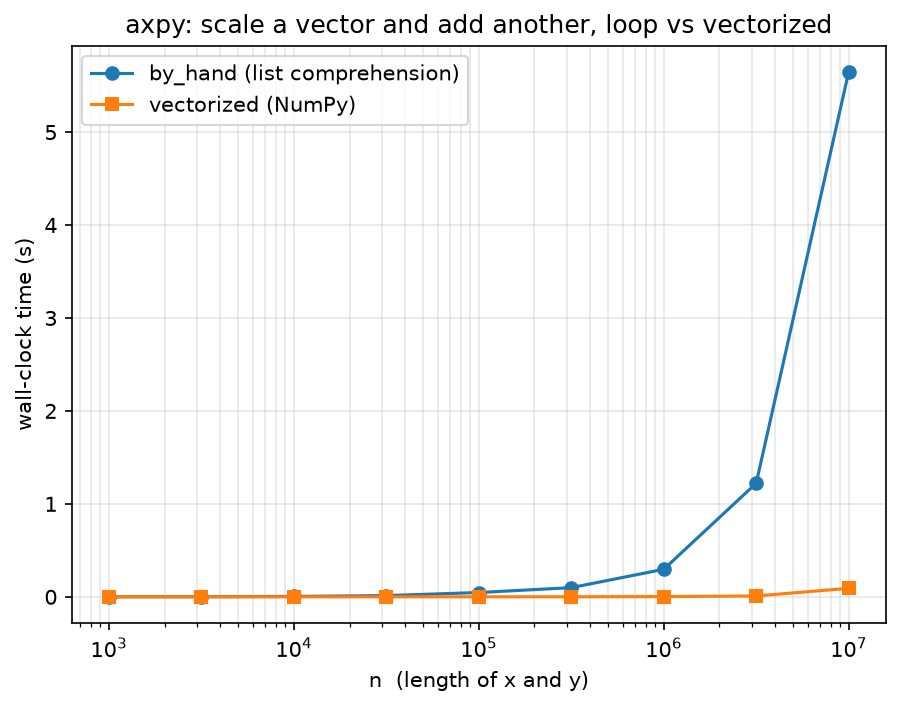
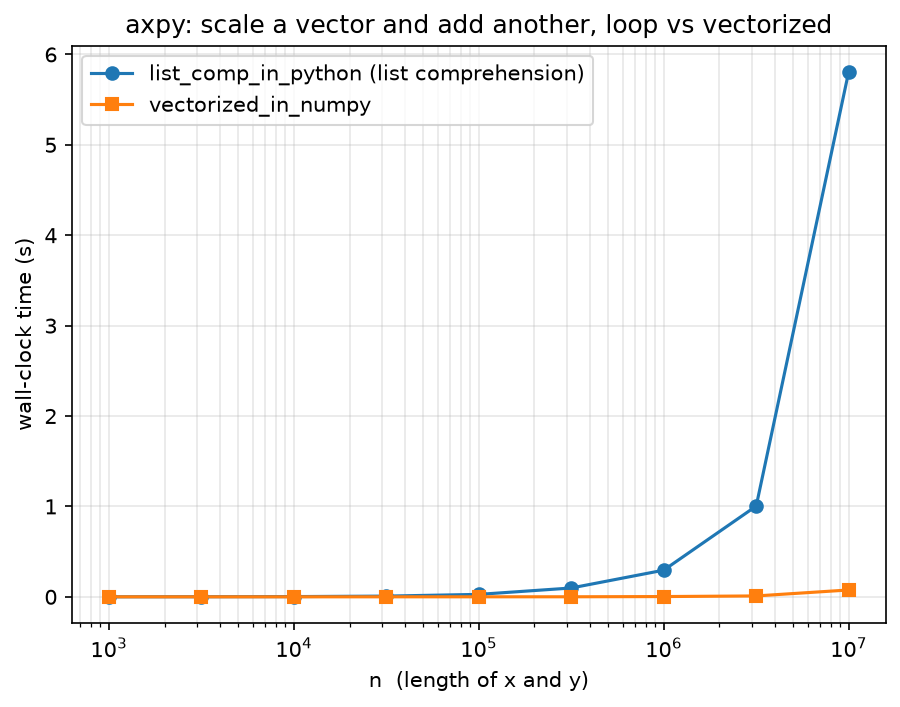
ch01: rename fns (list_comp_in_python/vectorized_in_numpy), dependence exhibit + dependent-triple figure, re-run

diff --git a/_fix2.py b/_fix2.py
@@ -1,0 +1,46 @@
+import nbformat as nbf
+nb = nbf.read('ch01/ch01.ipynb', as_version=4)
+md, code = nbf.v4.new_markdown_cell, nbf.v4.new_code_cell
+
+dep_idx = None
+for i, c in enumerate(nb.cells):
+    if c.cell_type != 'code':
+        continue
+    # bare function reference in the sweep cell
+    c.source = c.source.replace('best(vectorized,', 'best(vectorized_in_numpy,')
+    if 'are_independent' in c.source or 'c3 adds nothing new' in c.source:
+        dep_idx = i
+    if 'combination, exhibited' in c.source:
+        dep_idx = i
+
+if dep_idx is None:
+    for i, c in enumerate(nb.cells):
+        if c.cell_type == 'code' and 'c3' in c.source:
+            dep_idx = i
+print('dep cell at', dep_idx)
+print(repr(nb.cells[dep_idx].source[:120]))
+nb.cells[dep_idx] = code(
+    "c1 = np.array([1, -1, 0])\n"
+    "c2 = np.array([0, 1, -1])\n"
+    "c3 = np.array([-1, 0, 1])\n"
+    "print('c1 + c2 + c3 =', c1 + c2 + c3)   # the combination, exhibited")
+new_cells = [
+    md("### The dependent triple, drawn"),
+    code("fig = plt.figure(figsize=(6, 6))\n"
+         "ax = fig.add_subplot(projection='3d')\n"
+         "for v, c, name in [(c1, 'tab:blue', 'c1'), (c2, 'tab:red', 'c2'),\n"
+         "                   (c3, 'tab:green', 'c3')]:\n"
+         "    ax.quiver(0, 0, 0, *v, color=c, arrow_length_ratio=0.1)\n"
+         "    ax.text(*(v * 1.15), name, color=c)\n"
+         "xx, yy = np.meshgrid(np.linspace(-1, 1, 8), np.linspace(-1, 1, 8))\n"
+         "zz = -xx - yy                       # the plane x + y + z = 0\n"
+         "ax.plot_surface(xx, yy, zz, alpha=0.12, color='gray')\n"
+         "ax.set_xlim(-1, 1); ax.set_ylim(-1, 1); ax.set_zlim(-1, 1)\n"
+         "ax.set_title('Three vectors, one plane: the triple is dependent')\n"
+         "plt.savefig('figures/fig_dependent_triple.png', dpi=150,\n"
+         "            bbox_inches='tight')\n"
+         "plt.show()"),
+]
+nb.cells = nb.cells[:dep_idx+1] + new_cells + nb.cells[dep_idx+1:]
+nbf.write(nb, 'ch01/ch01.ipynb')
+print('cells:', len(nb.cells))